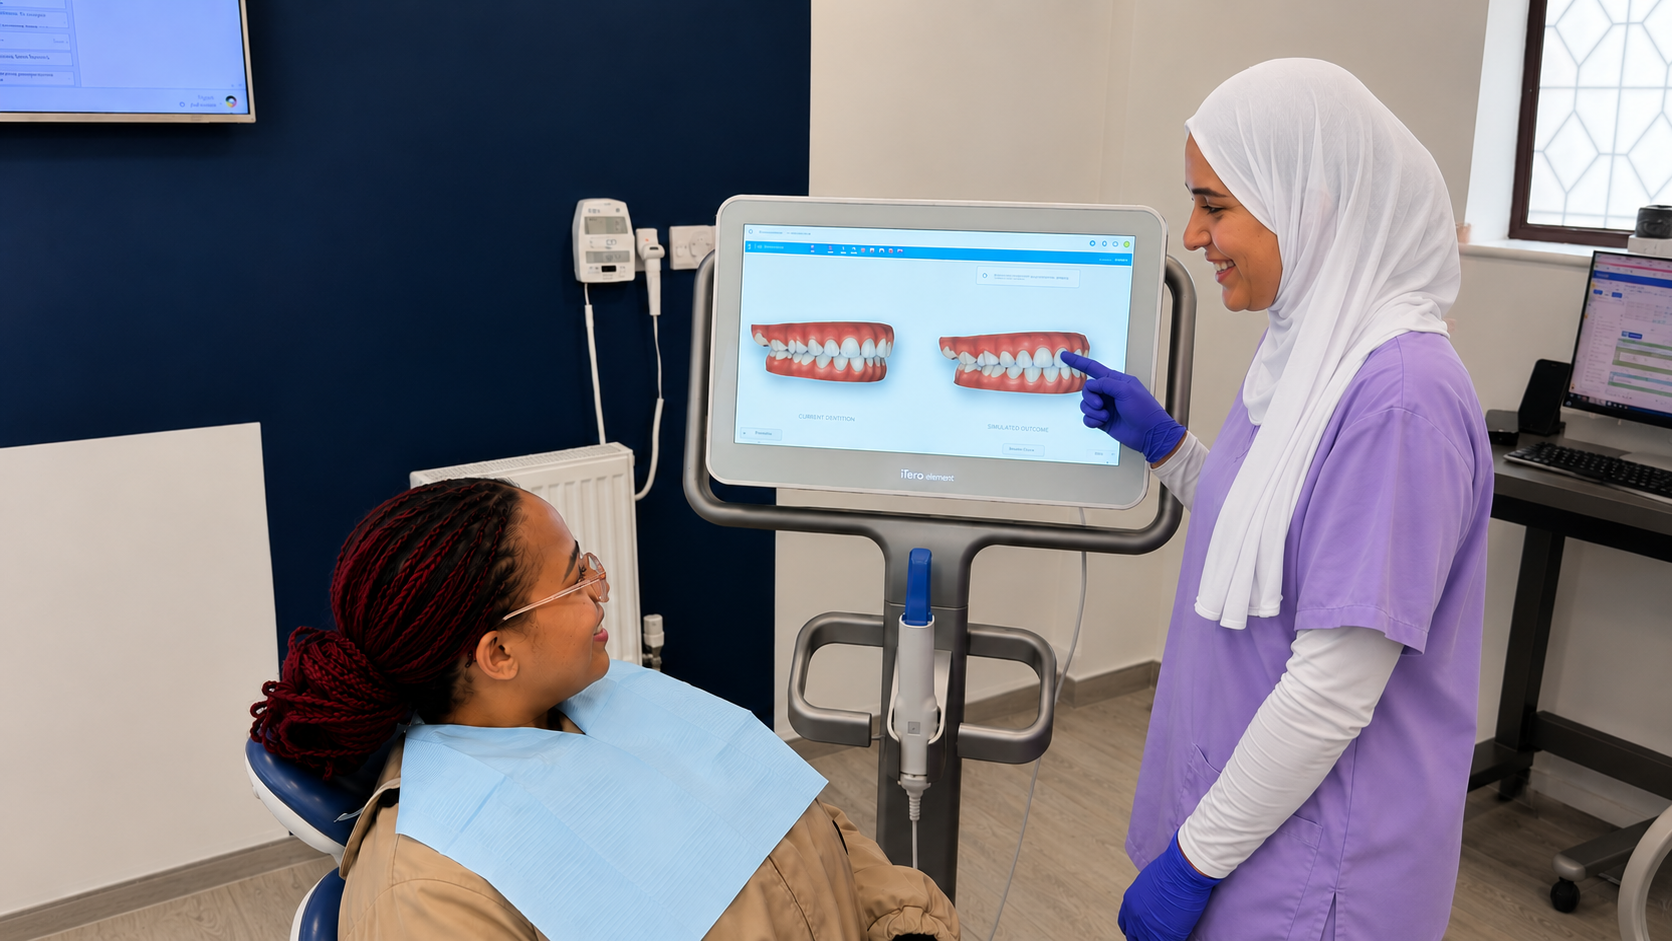
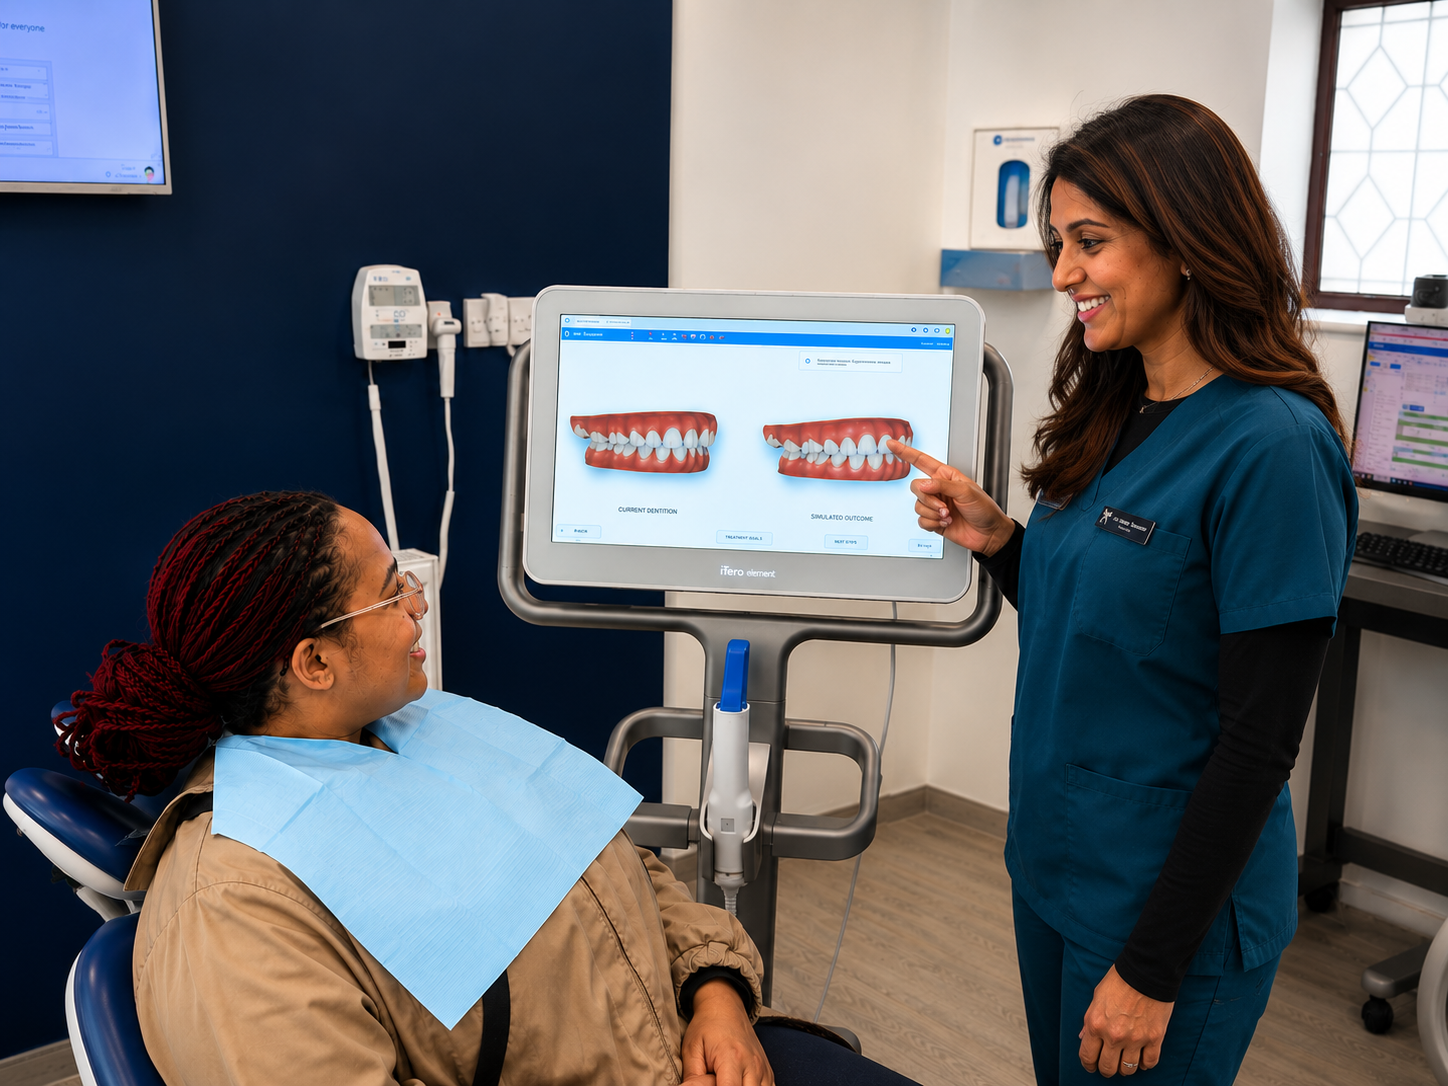
Real Images of AIsha

diff --git a/src/components/MeetClinician.jsx b/src/components/MeetClinician.jsx
@@ -1,5 +1,5 @@
 import { motion } from "framer-motion"
-import jasImage from "../assets/Images/Aisha.webp";
+import jasImage from "../assets/Images/Aisha.png";
 
 
 function MeetClinician() {

diff --git a/src/components/Offer.jsx b/src/components/Offer.jsx
@@ -1,5 +1,5 @@
 import { motion } from "framer-motion"
-import offer from "../assets/Images/Aisha alingers.webp";
+import offer from "../assets/Images/Aisha Offer.png";
 
 function Offer() {
   return (